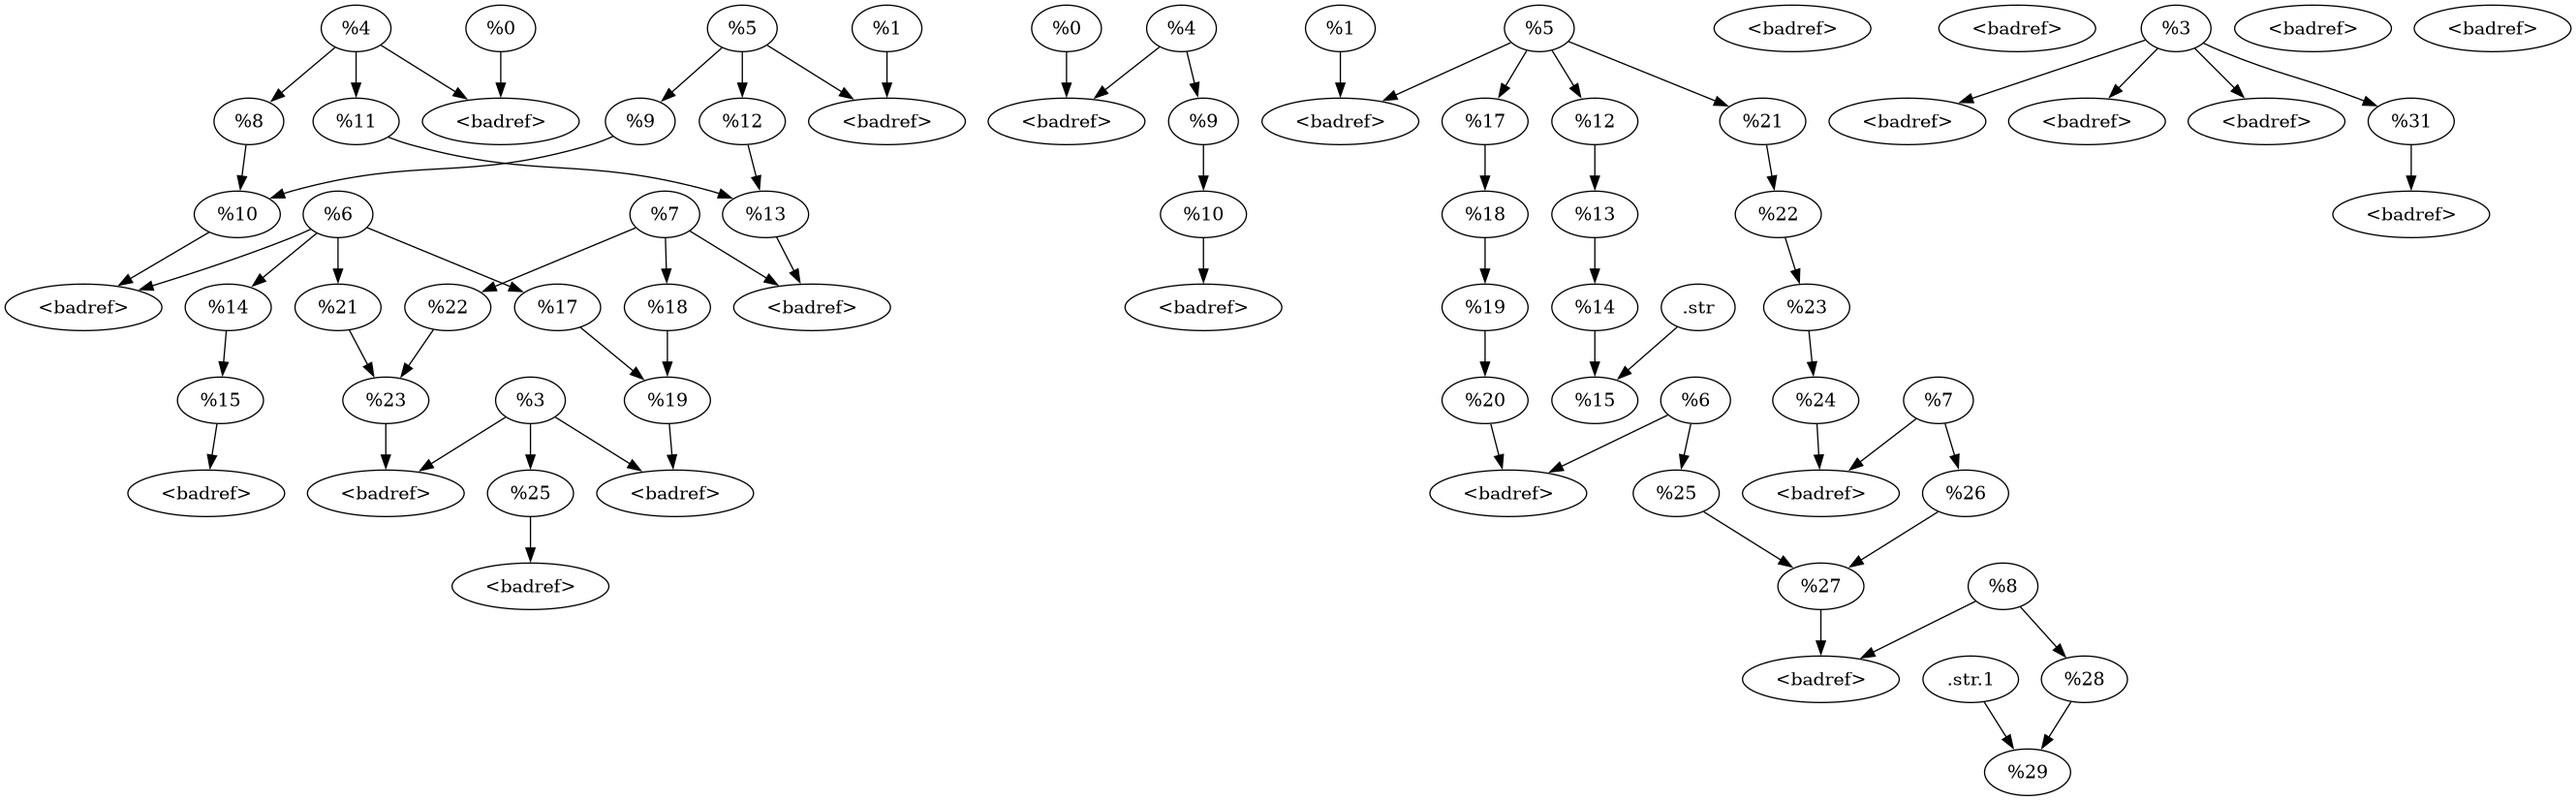
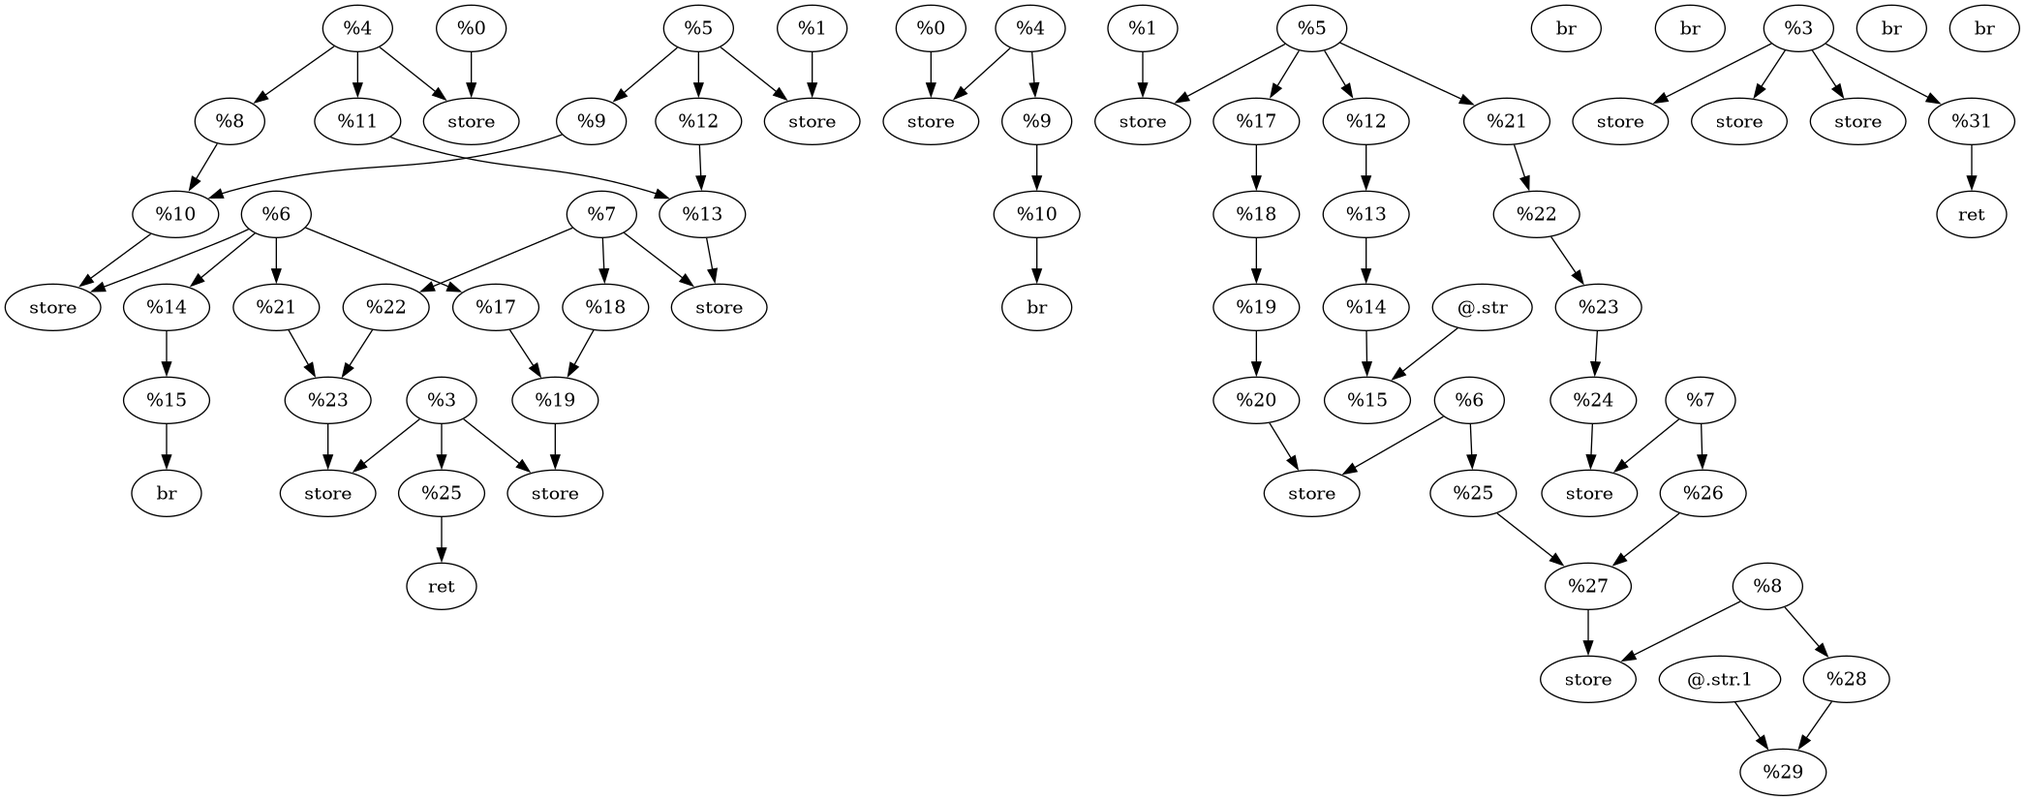
part a

diff --git a/src/def_use_graph.cpp b/src/def_use_graph.cpp
@@ -76,7 +76,23 @@ void DefUseGraph::makeDotFile() {
     const Value*   val = IDPair.first;
     const uint64_t id  = IDPair.second;
 
-    File << "  " << id << " [label=\"" << val->getNameOrAsOperand() << "\"];\n";
+    std::string LabelName;
+
+    if (auto* I = dyn_cast<Instruction>(val)) {
+      if (I->getType()->isVoidTy()) {
+        LabelName = I->getOpcodeName();
+      } 
+      else {
+        raw_string_ostream OS(LabelName);
+        I->printAsOperand(OS, false, &M);
+      }
+    } 
+    else {
+      raw_string_ostream OS(LabelName);
+      val->printAsOperand(OS, false, &M);
+    }
+
+    File << "  " << id << " [label=\"" << LabelName << "\"];\n";
   }
 
   for (Function& F : M) {
